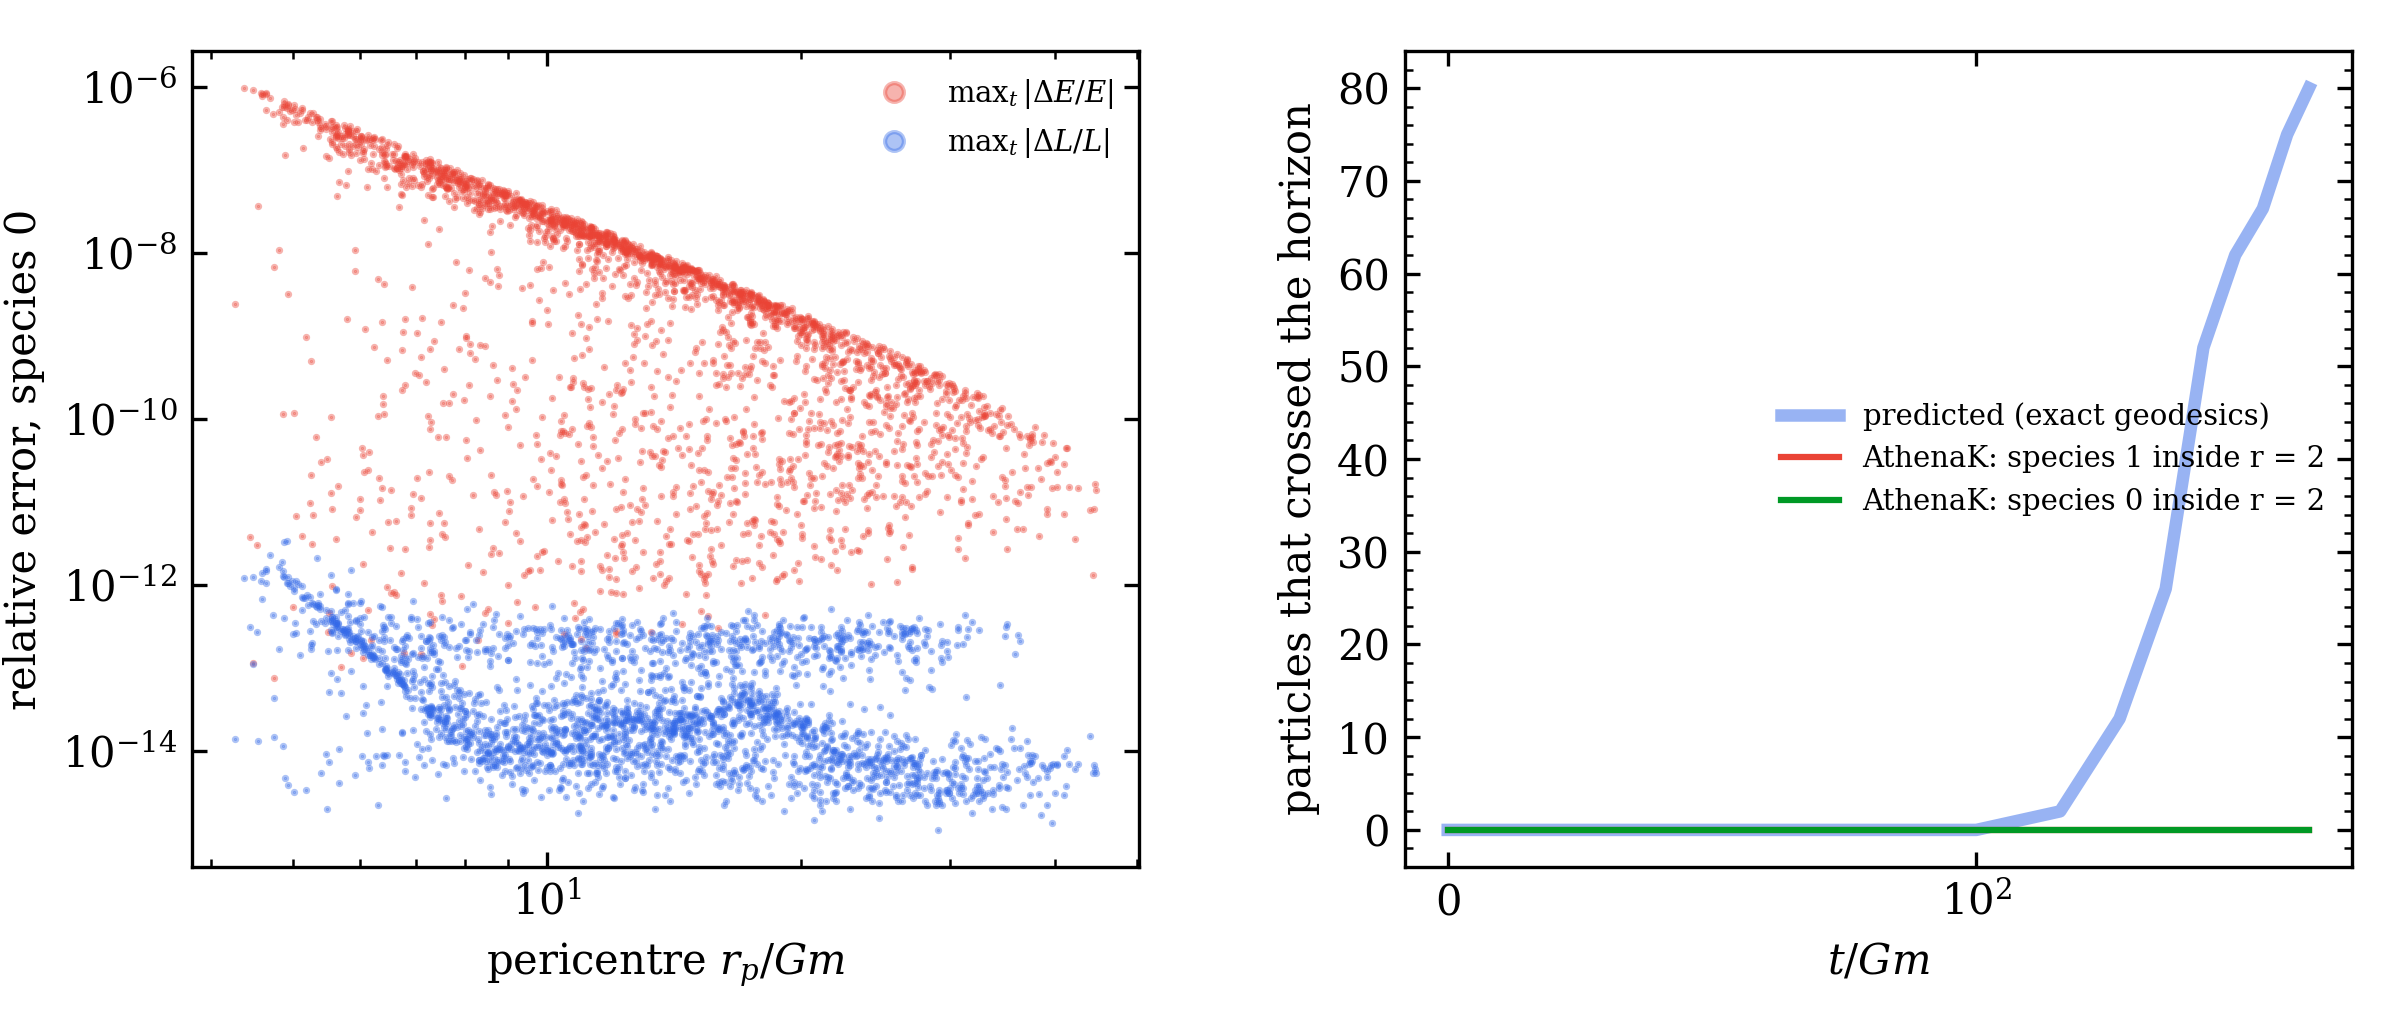
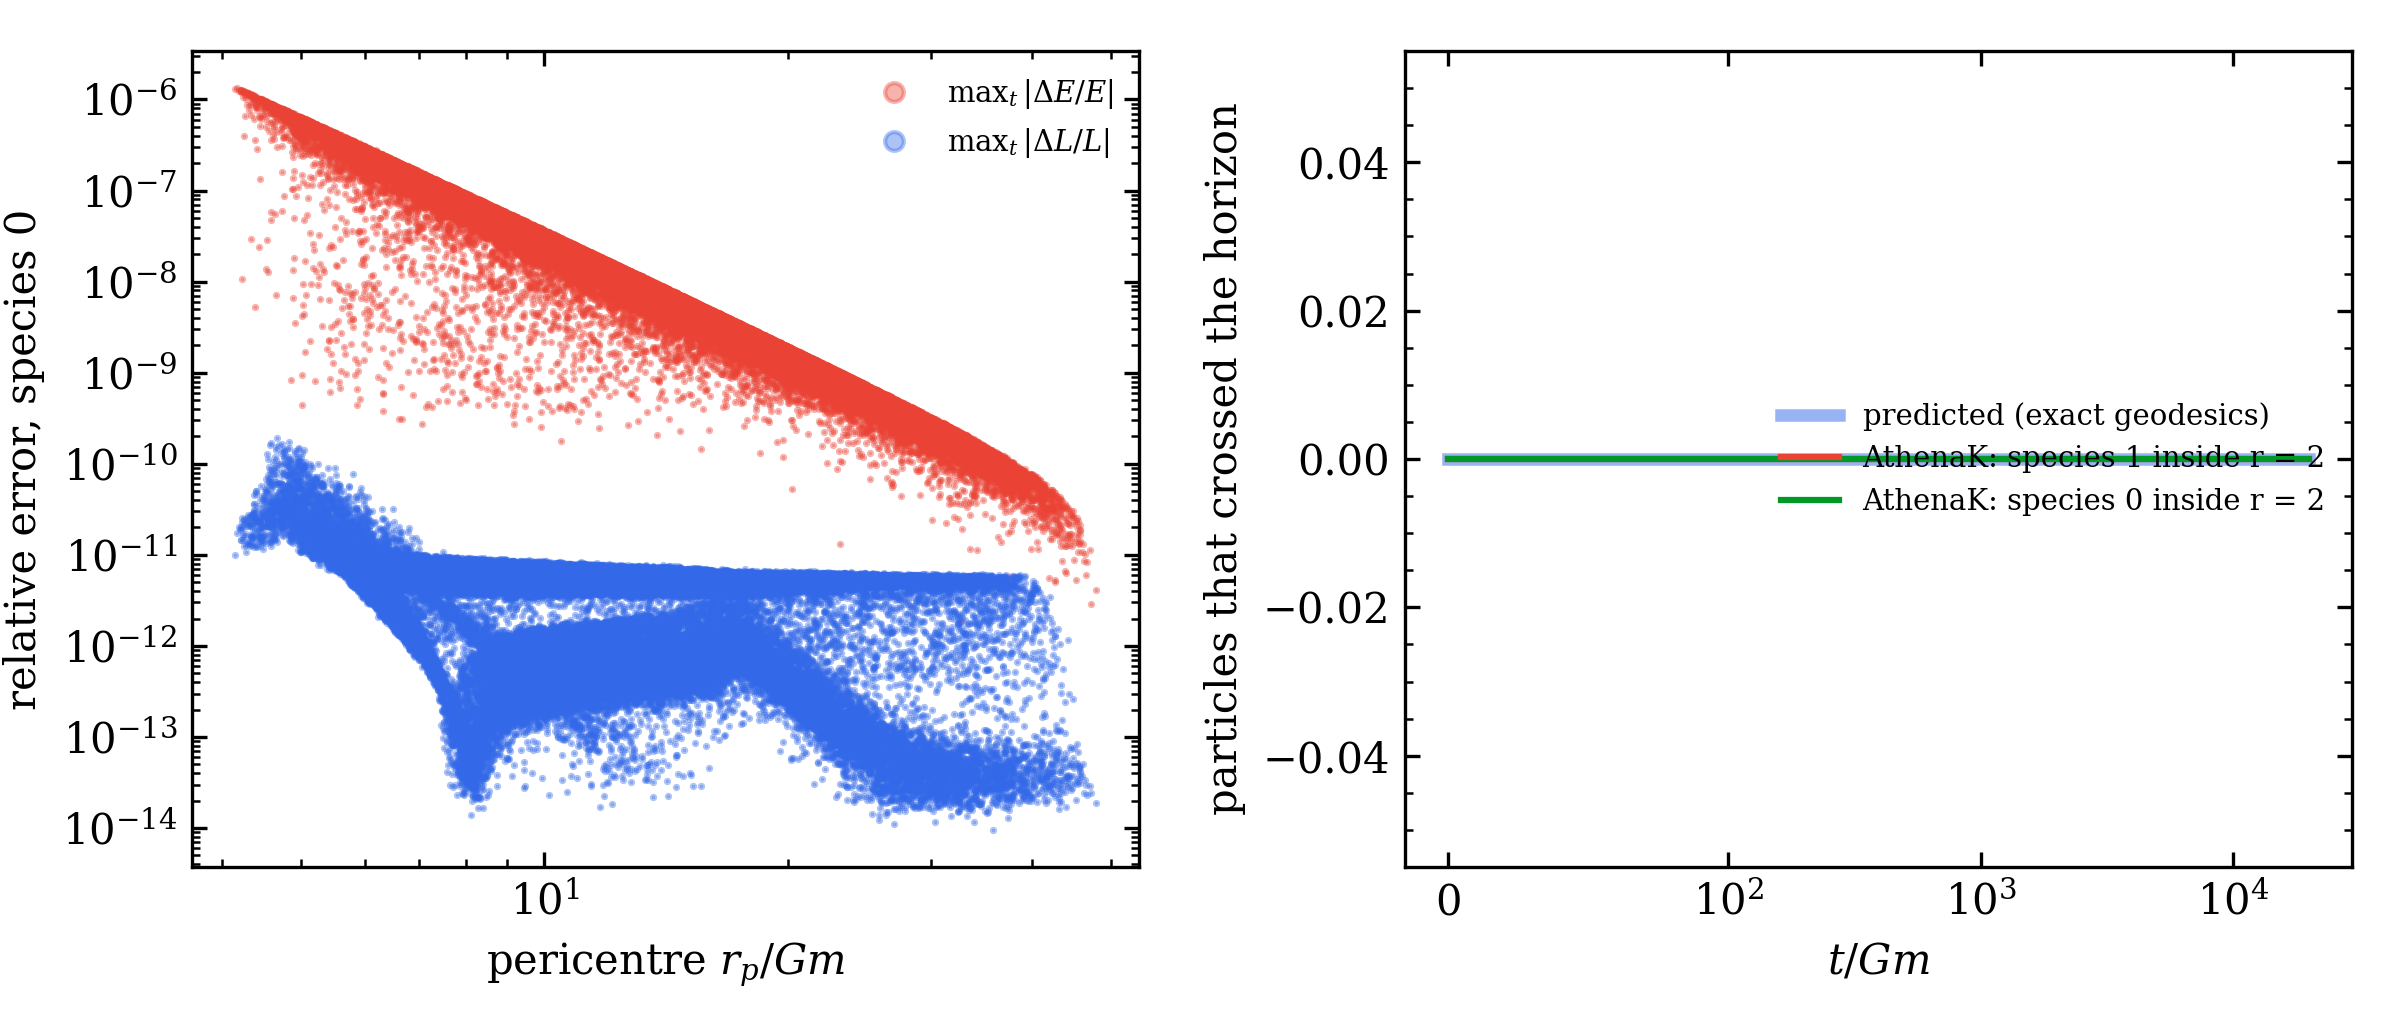
D-pre-2 P2/P3: spike DF stationary in AthenaK for 20000 M (chi2/dof 0.44-1.69, no drift), empty loss cone kept, particle budget for r < 20 Gm; README with results and requests
Runs D-bh-dress-20261115-125739-a18d74d (analysis of A), -123848-72cd01e (budget).

Claude-Session: https://claude.ai/code/session_01VD79cUYemmpt27M8dtYPfW

diff --git a/tracks/D-bh-dress/spike/README.md b/tracks/D-bh-dress/spike/README.md
@@ -39,8 +39,100 @@ source was changed and no card-hour was used.
 
 ## Results
 
-RESULTS_PLACEHOLDER
+Numbers with their run ids; the full record with predictions is in `JOURNAL.md`.
+
+**1. The relativistic spike reproduced by SFW's own method** (run
+D-bh-dress-20261115-123029-4df1e76; `figs/ref_constf.png`, `figs/ref_hernquist.png`).
+- [VERIFIED] Constant f (SFW Fig. 1): relativistic density vanishes at 4 Gm = 2 R_S, GS at
+  8 Gm; our peaks 0.8699e8 GeV/cm^3 at 7.58 Gm (relativistic) and 0.3359e8 at 16.0 Gm (GS)
+  equal the digitized figure to 0.02 %; whole curves to 0.26 % (2.2 % only at the GS edge);
+  FdRW's Schwarzschild curve to 0.4 %. Enhancement at the peak: 2.59. SFW's text value
+  "about 15 %" for GS with 8 -> 4 Gm is 9.2 % from their own figure.
+- [VERIFIED] Hernquist cusp (M = 1e12 M_sun, a = 20 kpc), m = 4e6 M_sun, canonical radial
+  action: FdRW's Schwarzschild curve (arXiv:1707.06302, fig_rho_hern) to 1.0 % (median
+  0.07 %); peak 2.44e18 GeV/cm^3 at 7.75 Gm; inner cut-off 4 Gm; spike meets the Hernquist
+  profile at 12.42 pc (FdRW: 12.4 pc). Enhancement over the Newtonian GS spike at the
+  peak: 3.39 (canonical), 3.57 (SFW action); the two agree to 0.9 % beyond 100 R_S.
+- [VERIFIED to 0.04 dex] SFW Fig. 3 is reproduced with m = 1.0e6 M_sun (not the 4e6 M_sun
+  of their Sec. V) for 0.45 < log10(r/R_S) < 4, relativistic and non-relativistic curves;
+  [JUDGEMENT] beyond 1e4 R_S their curves bend to slope -1.9 where ours keep -7/3.
+- [VERIFIED] SFW eq. (3.19)/(4.13) omits the factor 1/(1-2Gm/r) of the canonical radial
+  action (FdRW footnote, kerrdm.tex line 919). The printed form raises the inner spike by
+  +6.9 % (6 Gm), +5.2 % (peak), +1.9 % (95 Gm), +0.3 % (1e3 Gm). The probe test below uses
+  the canonical action.
+
+**2. AthenaK check in the probe limit** (CPU executable of main, analytic Kerr-Schild
+metric a = 0, midpoint pusher, dt = 0.05 M; no card-hours).
+- Stationarity (run A D-bh-dress-20261115-123755-25227d4, analysis -125739-a18d74d):
+  48000 particles drawn from the final DF (E <= 0.99, apocentres <= 92 Gm) for 20000 M
+  (9 radial periods of the widest orbits): chi^2/dof of the binned profile 1.48 at t = 0
+  and 0.44-1.69 (median 0.98, dof 23) over 81 snapshots; counts in 4-6 / 6-10 / 10-20 /
+  20-50 Gm within 3 sigma at every snapshot, late-half means 0.976 +- 0.070,
+  0.994 +- 0.022, 0.999 +- 0.011, 0.998 +- 0.006 of the reference. Invariants: |dE/E| median
+  8.5e-9, max 1.3e-6 (at r_p = 4.2 Gm); |dL/L| max 1.9e-10.
+- Loss cone: the final DF has an empty loss cone; none of the 48000 particles reached
+  r < 2. Boundary probes (runs B -123801-25227d4 and B2 -123936-72cd01e): all 1200
+  particles with L^2 = L_c^2(1-|q|), |q| = 1e-4 ... 0.1, crossed r = 2, none of the 1200
+  with L^2 = L_c^2(1+|q|) did. Crossing times agree with exact geodesics to -0.024 M
+  (median; at most -0.75 M at |q| = 1e-4) and converge at second order in dt (ratio
+  3.997 for dt 0.05 -> 0.025); the offset grows as 1/|q| (whirl near the unstable orbit).
+- [VERIFIED in the source] the analytic-metric mode has no excision: `NrpicExcise` acts
+  only for metric = mesh (athenak/src/particles/nrpic.cpp:627); particles inside the
+  horizon fall to r ~ 0.004, are flagged when their push turns non-finite, and stay in the
+  arrays. "Removal" was therefore measured as "r < 2 in a snapshot" (no particle came back
+  out). See Requests.
+
+**3. Particle number inside ten horizon radii (r < 20 Gm)** (run
+D-bh-dress-20261115-123848-72cd01e, `figs/particle_budget.png`): equal-mass particles from
+the DF truncated at E_cut need N = 3.0e4 (1 - E_cut = 1e-2), 2.8e5 (1e-3), 1.5e6 (1e-4),
+7.4e6 (1e-5), 3.5e7 (1e-6) in total for 100 particles in each of 8 log bins in 5-20 Gm
+(10 % counting noise; x4 for 5 %); asymptotically x4.6 per decade of the largest
+apocentre (N(<r) ~ r^(2/3) of a r^-7/3 spike). For a self-gravitating run the deposited
+density is the stricter requirement: about 6e7 particles inside 20 Gm for 5 % noise on
+0.25 Gm cells [JUDGEMENT, extrapolated from docs/results_cluster_test.md 2(d)], i.e.
+lighter particles near the hole (mass refinement) or a capped deposit level are needed.
+
+**4. What a self-gravitating run can add** [JUDGEMENT]. The probe test fixes the metric,
+so it tests only the pusher and the initial-data machinery. A self-gravitating NRPIC run
+(puncture plus particles, Z4c) adds: (i) the dress's own gravity, negligible for a
+Sgr A*-like spike (dress mass inside 100 Gm far below m) but not for primordial-black-hole
+dresses whose mass can approach the hole's, which moves L_c, E_min and the inner edge;
+(ii) the growth of the hole by the particle flux through the horizon, the G2 criterion of
+the track (horizon mass against integrated flux); (iii) growth that is not adiabatic
+(hole forming or growing on the orbital time), which the action-matching method cannot
+treat; (iv) numerical relaxation: the deposit noise scatters particles into the loss cone,
+and since the probe run keeps the loss cone empty to the particle, the horizon flux of a
+self-gravitating run started from this DF measures that relaxation directly; (v) an
+expanding background (S4). It cannot be checked against SFW beyond the probe limit.
+
+**Not done.** The Kerr case: FdRW give equatorial curves for a = 0.5 and 0.8 (digitized
+targets, `paper_curves.json` of the P1 run: constant f peaks 0.926e8 at 7.25 Gm and
+1.058e8 at 6.53 Gm; Hernquist peaks 2.81e18 at 7.11 Gm and 4.08e18 at 5.07 Gm; their
+text says +35 % (Hernquist) and about +20 % (constant f) from a = 0.5 to 0.8, the
+digitized curves give +45 % and +14 %). It needs the three-dimensional (E, C, L_z)
+integral with the Kerr capture boundary and a Kerr sampler; not started. No
+self-gravitating run was made (outside this package).
 
 ## Requests
 
-REQUESTS_PLACEHOLDER
+- **core**: excision for the analytic metric sources. Apply `alpha_exc` (lapse of the
+  analytic metric at the particle) also for metric = kerr_schild, kerr_schild_sph,
+  boyer_lindquist and lattice, and let `NrpicExcise` remove flagged particles (PGID < -1)
+  for every metric source, counted in n_excised / m_excised of the history. Today a particle
+  whose push turns non-finite is flagged but kept and pushed again every cycle
+  (athenak/src/particles/nrpic.cpp:462-533, 627). Acceptance test supplied here:
+  `spike_lc.nrp` of IC run D-bh-dress-20261115-123734-25227d4 with
+  `particles/alpha_exc=0.62`: n_excised must reach 1200, each removal after the predicted
+  horizon crossing (`tcross` in `ic_meta.npz`) by the infall time from r = 2 to the
+  excision lapse, none of the 1200 bound probes removed; run A's files: no removal.
+- **core** (for the self-gravitating dress, later): particle mass refinement near the
+  hole, or an adaptive deposit level cap inside ~20 Gm (result 3).
+- **kb**: annotate arXiv:1305.2619 with (a) the missing 1/(1-2Gm/r) in eqs. (3.19)/(4.13)
+  (FdRW kerrdm.tex line 919), (b) Fig. 3 drawn for m = 1e6 M_sun (this package, P1),
+  (c) "about 15 %" (SFWpaper.tex line 443) is 9.2 % from Fig. 1; and arXiv:1707.06302 with
+  the +35 % / +20 % of the text against +45 % / +14 % of fig_rho_hern / fig_rho_a.
+- **lead (D-bh-dress)**: the track sheet's D-pre-2 says "integrate geodesics ... to obtain
+  the adiabatically grown density profile"; the profile comes from action matching, the
+  geodesic integration (in AthenaK) is the stationarity and loss-cone check. Wording for an
+  outbox note if wanted. The dev figures committed by mistake in e25f22a were overwritten
+  by the registered ones.

diff --git a/tracks/D-bh-dress/spike/JOURNAL.md b/tracks/D-bh-dress/spike/JOURNAL.md
@@ -142,3 +142,59 @@ innermost of 8 log bins in 5-20 Gm holds the fewest. Prediction: for E_cut = 0.9
 3e4 particles in total give 100 per bin (10 %); the requirement grows like
 N(<r_apo)/N(<20) ~ (r_apo/20)^(2/3) (number profile of a rho ~ r^-7/3 spike), i.e. about
 4.6x per decade of the largest apocentre. Refuted if the growth per decade is outside 3-7x.
+
+## P2 outcome
+
+Runs: initial data D-bh-dress-20261115-123734-25227d4 (10.7 s); run A
+D-bh-dress-20261115-123755-25227d4 (12 CPU processes, 1151 s, 3.8 core-hours, 48000
+particles x 400000 steps); run B D-bh-dress-20261115-123801-25227d4 (94 s); run B2
+D-bh-dress-20261115-123936-72cd01e (154 s); analyses D-bh-dress-20261115-125739-a18d74d
+(A), -124246-aa9dee7 (B), -124249-aa9dee7 (B2), -124257-aa9dee7 (B vs B2); a first analysis
+of A, D-bh-dress-20261115-125724-464611f, FAILED (empty-array reduction when no species-1
+particle is present; fixed in a18d74d and rerun). No card-hour used. Figures looked at:
+`figs/stationarity_profile.png`, `figs/stationarity_time.png`, `figs/invariants_losscone.png`,
+`figs/losscone_dt0.05.png`, `figs/losscone_dt0.025.png`, `figs/crossing_dt.png`.
+Sampler checks (ic_summary.json): no envelope violation in 192000 orbit trials and in the
+phase sampling; 52 of 52800 grid nodes had no orbit (E at the ISCO or lambda at the circular
+end) and carry weight 0; converted states reproduce E and L to 4e-16 and 1.1e-15.
+
+P2a confirmed: chi^2/dof = 1.48 at t = 0 (dof 23, band 0.12-1.89).
+P2b confirmed: chi^2/dof over the 81 snapshots median 0.98, range 0.44-1.69, no trend.
+    Counts in 4-6 / 6-10 / 10-20 / 20-50 Gm (expected 207 / 1983 / 9114 / 26365) stayed
+    within -2.9 ... +2.7 sigma, -2.7 ... +1.6, -2.2 ... +1.3, -1.8 ... +1.3 sigma at every
+    snapshot; late-half means 0.976 (sigma 0.070), 0.994 (0.022), 0.999 (0.011),
+    0.998 (0.006) of the expected value. The binned profile stays on the reference for
+    20000 M, i.e. 9 radial periods of the widest orbits and about 100 of orbits with a
+    semi-major axis of 10 Gm.
+P2c: |dE/E| (max over snapshots) median 8.5e-9, 99th percentile 6.5e-7, max 1.3e-6
+    (confirmed; the error grows steeply towards small pericentre, 1.3e-6 at r_p = 4.2 Gm,
+    1e-11 at 80 Gm). |dL/L| median 1.6e-12, p99 3.6e-11, max 1.9e-10: the prediction
+    "< 1e-10" FAILED by a factor 2 for particles with pericentres of 4-5 Gm; L_z is a
+    quadratic invariant of the implicit midpoint rule, so I expect this to be the
+    accumulation of the fixed-point tolerance (1e-12) over 4e5 steps [JUDGEMENT, not tested].
+P2d confirmed: none of the 48000 species-0 particles reached r < 2 in 20000 M.
+P2e confirmed: all 1200 loss-cone probes (q < 0) crossed r = 2, none of the 1200 probes
+    outside (q > 0) did, for |q| from 1e-4 to 1e-1, in both B and B2. No particle came back
+    out of r < 2 and no snapshot record was non-finite. Crossing time measured from the last
+    snapshot outside (exact remaining infall time with the particle's own E, L): every probe
+    crosses EARLIER than the exact geodesic, by -0.024 M (median) and at most -0.75 M with
+    dt = 0.05, by -0.0060 M and at most -0.19 M with dt = 0.025; the ratio is 3.997 (median;
+    3.98 / 4.00 / 4.00 in the |q| decades 1e-4, 1e-3, 1e-2), and the offset scales as 1/|q|
+    (`figs/crossing_dt.png`): a second-order phase error of the pusher, amplified by the
+    whirl near the unstable circular orbit. With the coarse 2 M snapshots the first-inside
+    test was within [t_pred - 1, t_pred + 2) for all probes, as predicted.
+
+## P3 outcome (run D-bh-dress-20261115-123848-72cd01e, 17.5 s)
+
+Total equal-mass N for 100 (400) particles in each of 8 log bins in 5-20 Gm, DF truncated
+at E <= E_cut (largest apocentre in brackets): 1 - E_cut = 1e-2 (113 Gm): 3.0e4 (1.2e5);
+1e-3 (1.0e3 Gm): 2.8e5 (1.1e6); 1e-4 (1.0e4 Gm): 1.5e6 (6.1e6); 1e-5 (1.0e5 Gm): 7.4e6
+(3.0e7); 1e-6 (1.0e6 Gm): 3.5e7 (1.4e8). Fraction of the particles inside 20 Gm: 0.236,
+0.025, 0.0047, 0.00097, 0.00021. The predicted 3e4 for E_cut = 0.99 is confirmed; the
+growth per decade of apocentre is 9.5x, 5.4x, 4.8x, 4.7x: the first decade is outside the
+predicted 3-7x (FAILED there; the truncation at E_cut = 0.99 removes part of the density
+inside 20 Gm itself, see the full-DF curve of `figs/stationarity_profile.png`), the later
+ones approach the asymptotic (10)^(2/3) = 4.64 as predicted.
+Deposit noise for a self-gravitating run (scaling of docs/results_cluster_test.md 2(d):
+relative L2 noise 0.24-0.28 at 1.1 particles per occupied cell, N^-1/2): 6.4e7 particles
+inside 20 Gm for 5 % noise on cells of 0.25 Gm [JUDGEMENT, extrapolated].
